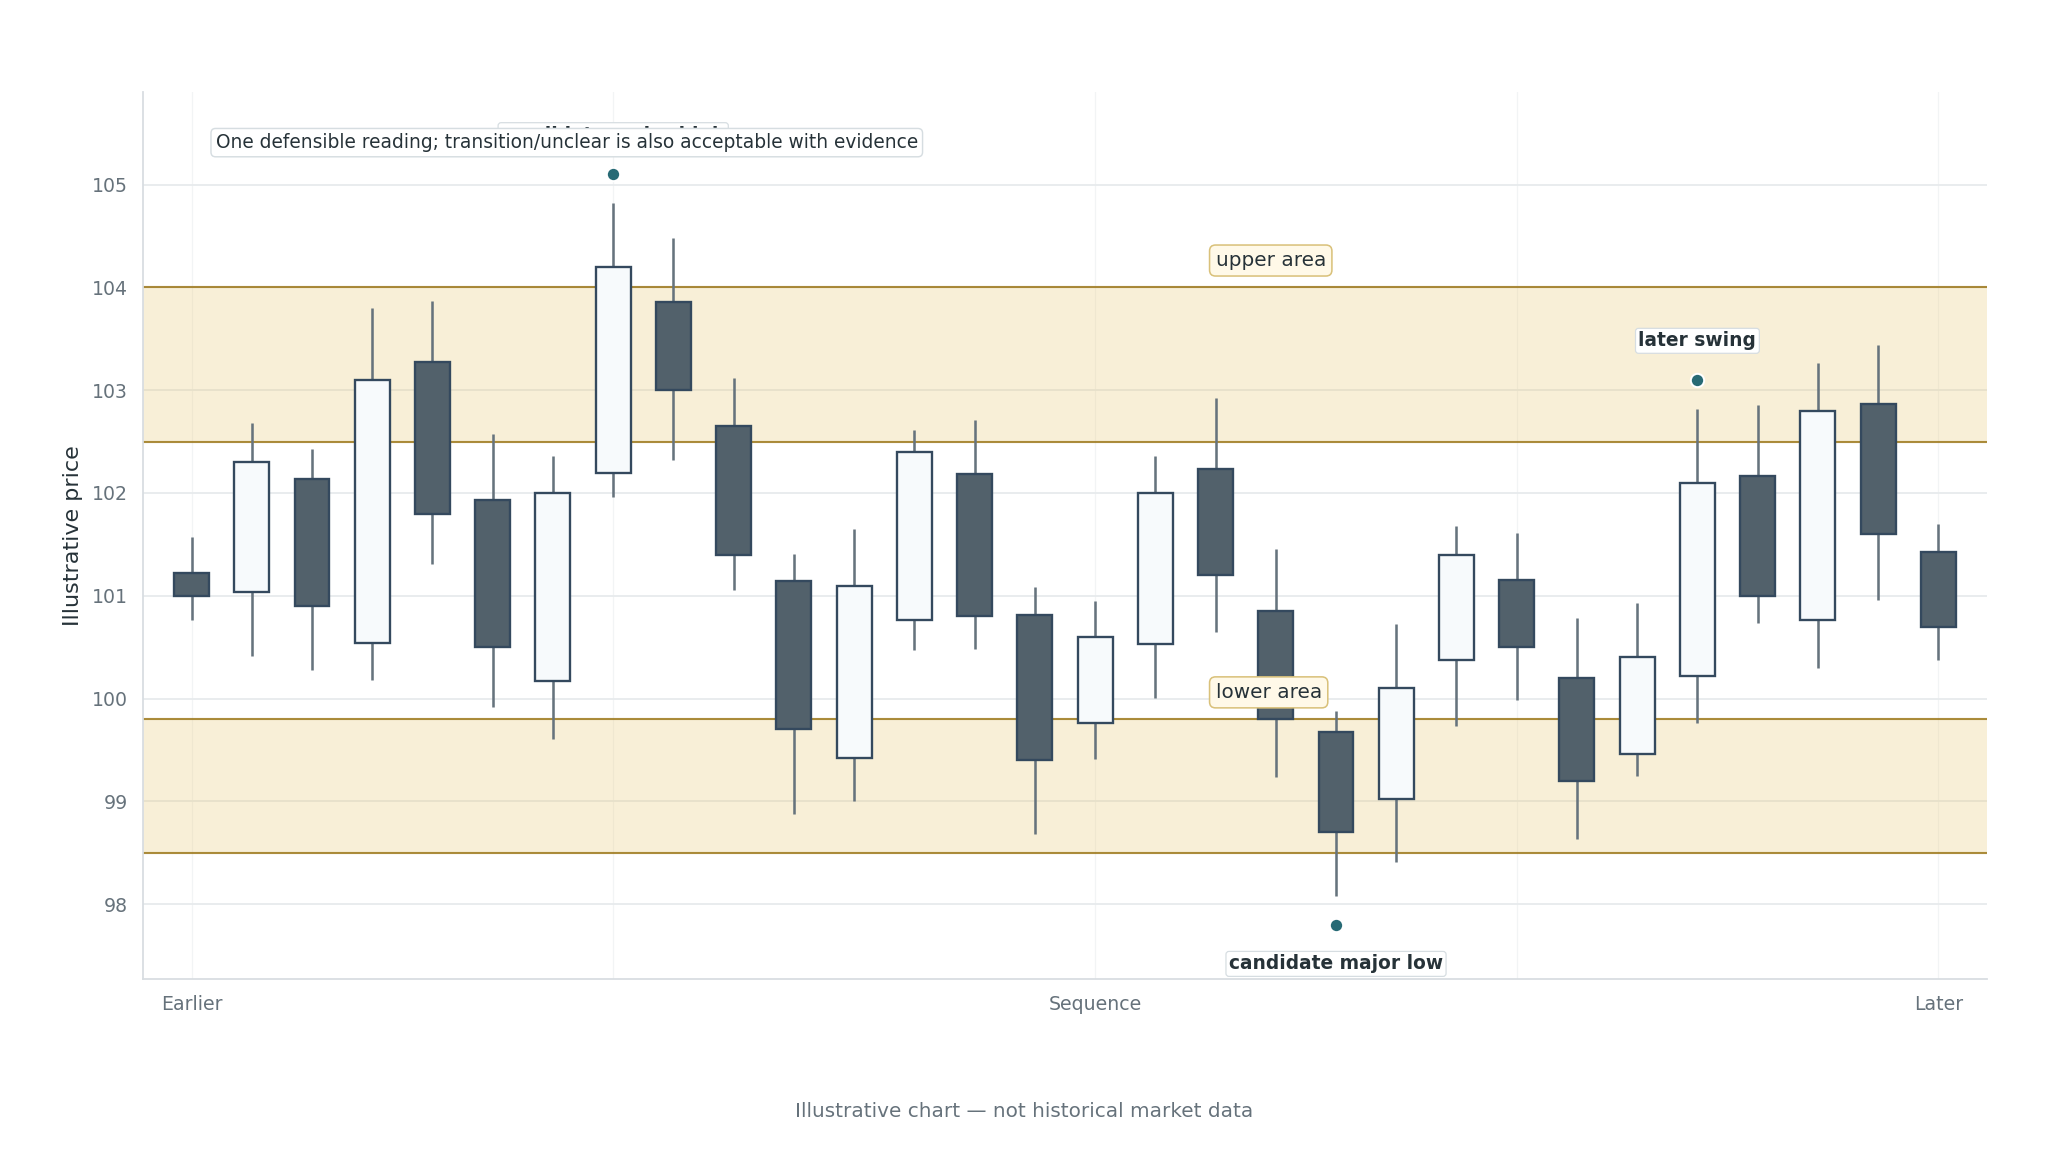
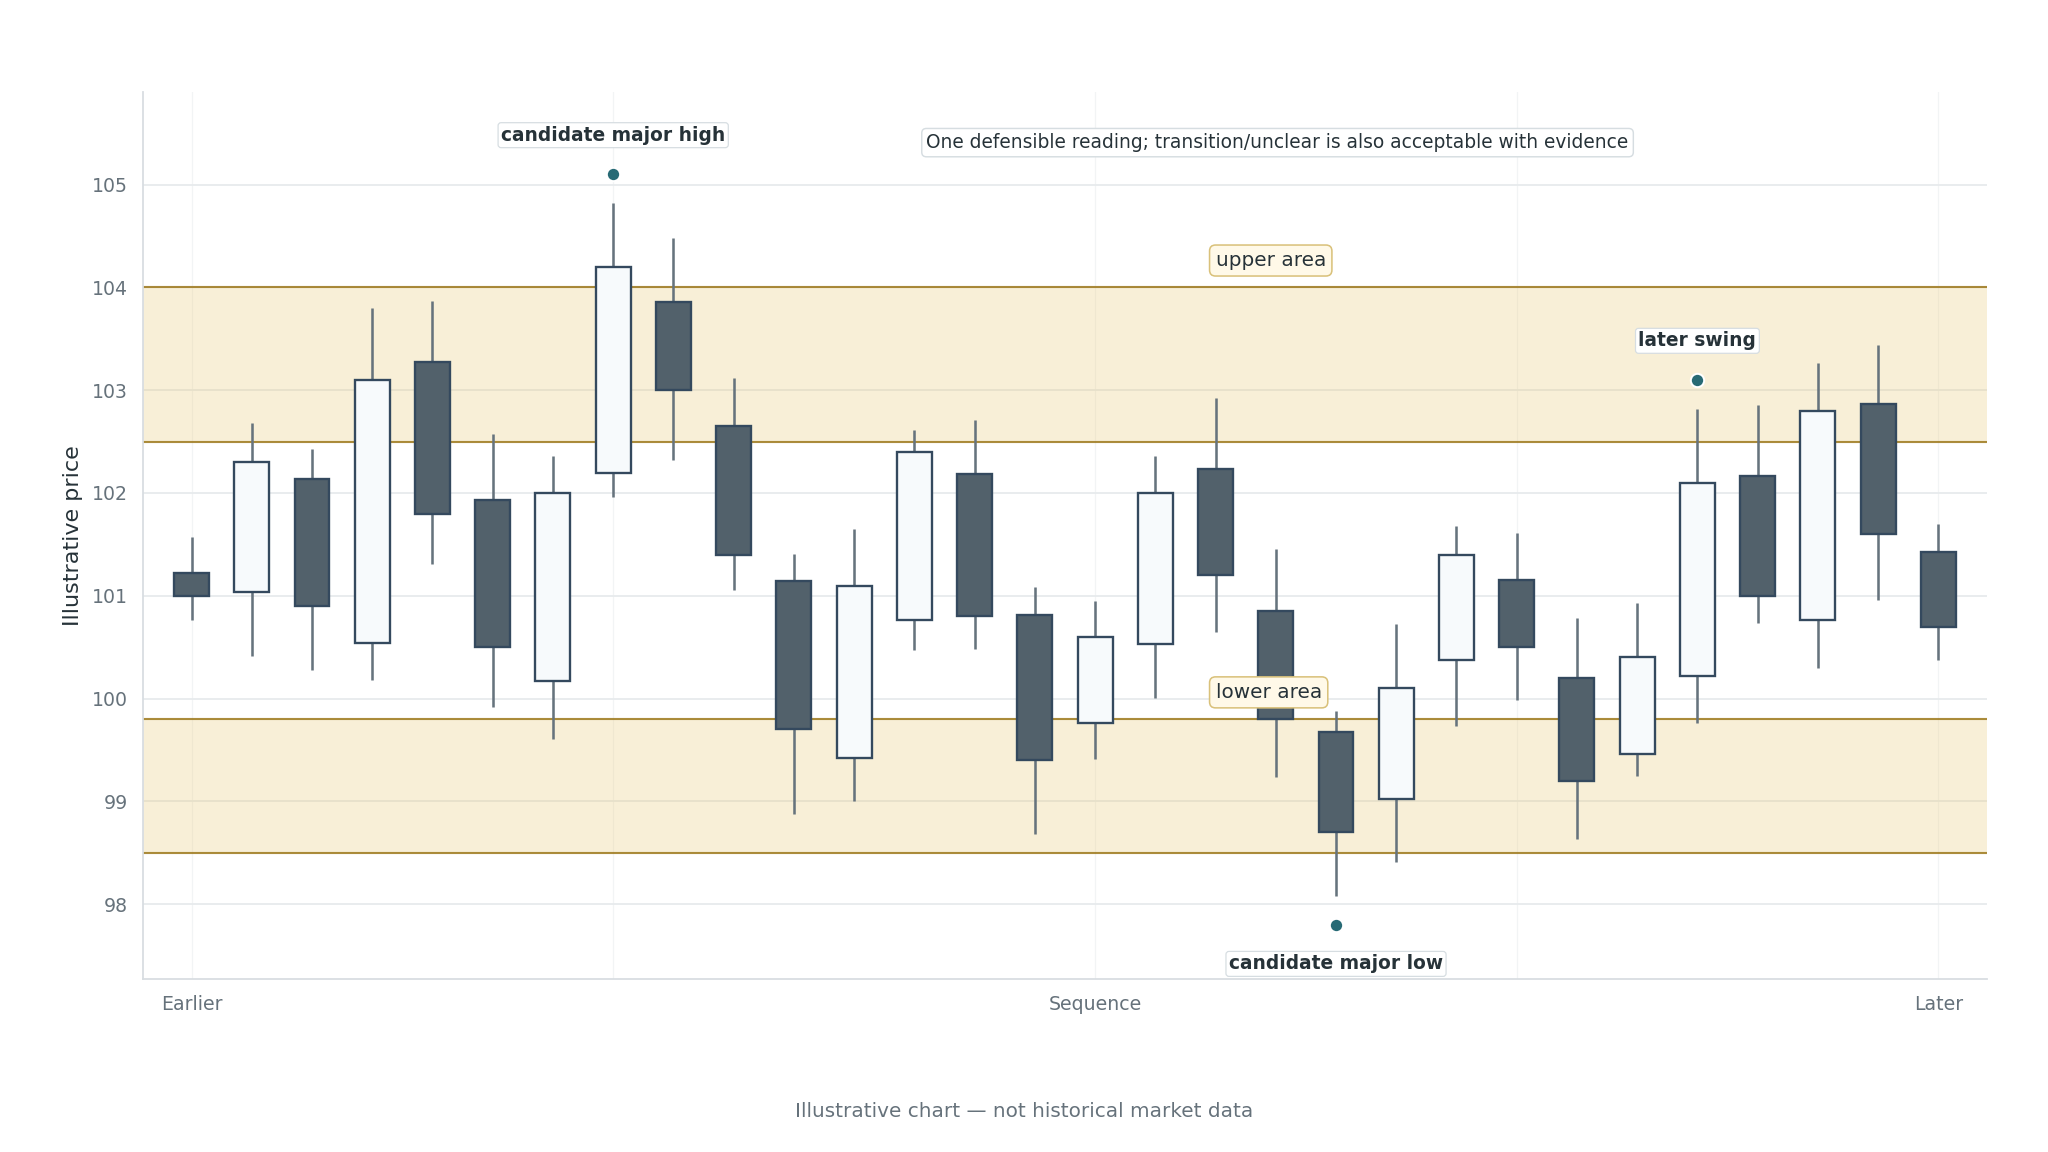
Fix Lesson 18 reference chart note overlap

Changed region(s): [[0.125, 0.0938, 0.7812, 0.125]]

diff --git a/course-content/support-resistance/chart_assets/source/build_chart_assets.py b/course-content/support-resistance/chart_assets/source/build_chart_assets.py
@@ -738,7 +738,7 @@ draw_chart('L18-A-01-unseen','L18_A_final_unseen_assessment',l18a,'final assessm
 draw_chart('L18-A-02-reference-internal','L18_A_final_unseen_assessment',l18a,'INTERNAL reference analysis; do not show before submission',
            bands=[{'low':98.5,'high':99.8,'label':'lower area'},{'low':102.5,'high':104.0,'label':'upper area'}],
            markers=[{'bar':8,'kind':'high','label':'candidate major high'},{'bar':20,'kind':'low','label':'candidate major low'},{'bar':26,'kind':'high','label':'later swing'}],
-           extra_text=[{'x':0.4,'y':105.5,'text':'One defensible reading; transition/unclear is also acceptable with evidence','fontsize':8.4}],
+           extra_text=[{'x':12.2,'y':105.5,'text':'One defensible reading; transition/unclear is also acceptable with evidence','fontsize':8.4}],
            alt_text='Internal reference for the final assessment shows one defensible pair of zones and major turns, while explicitly allowing an evidenced transition or unclear interpretation.')
 l18b_closes = [106,104.7,103.1,102.0,103.0,101.6,100.4,101.5,99.8,98.9,100.1,101.2,99.6,98.8,99.9,101.4,102.7,101.8,100.5,102.0,103.4,102.5,101.4,102.3,103.6]
 l18b = bars_from_closes(l18b_closes,1802,{8:(98.3,None),13:(98.25,None),9:(None,100.5),20:(None,104.0)})
@@ -748,7 +748,7 @@ draw_chart('L18-B-01-retry-unseen','L18_B_parallel_retry',l18b,'parallel retry c
 draw_chart('L18-B-02-retry-reference-internal','L18_B_parallel_retry',l18b,'INTERNAL parallel retry reference; do not show before retry',
            bands=[{'low':98.2,'high':99.5,'label':'lower area'},{'low':102.6,'high':104.0,'label':'upper area'}],
            markers=[{'bar':2,'kind':'high','label':'earlier high'},{'bar':10,'kind':'low','label':'candidate low'},{'bar':21,'kind':'high','label':'later high'}],
-           extra_text=[{'x':0.4,'y':106.9,'text':'Parallel task: same rubric, fresh chart, no copied reference drawing','fontsize':8.4}],
+           extra_text=[{'x':12.2,'y':106.9,'text':'Parallel task: same rubric, fresh chart, no copied reference drawing','fontsize':8.4}],
            alt_text='Internal parallel retry reference with one defensible zone interpretation and a distinct swing selection; must remain hidden until retry submission.')
 
 # Save registers.
